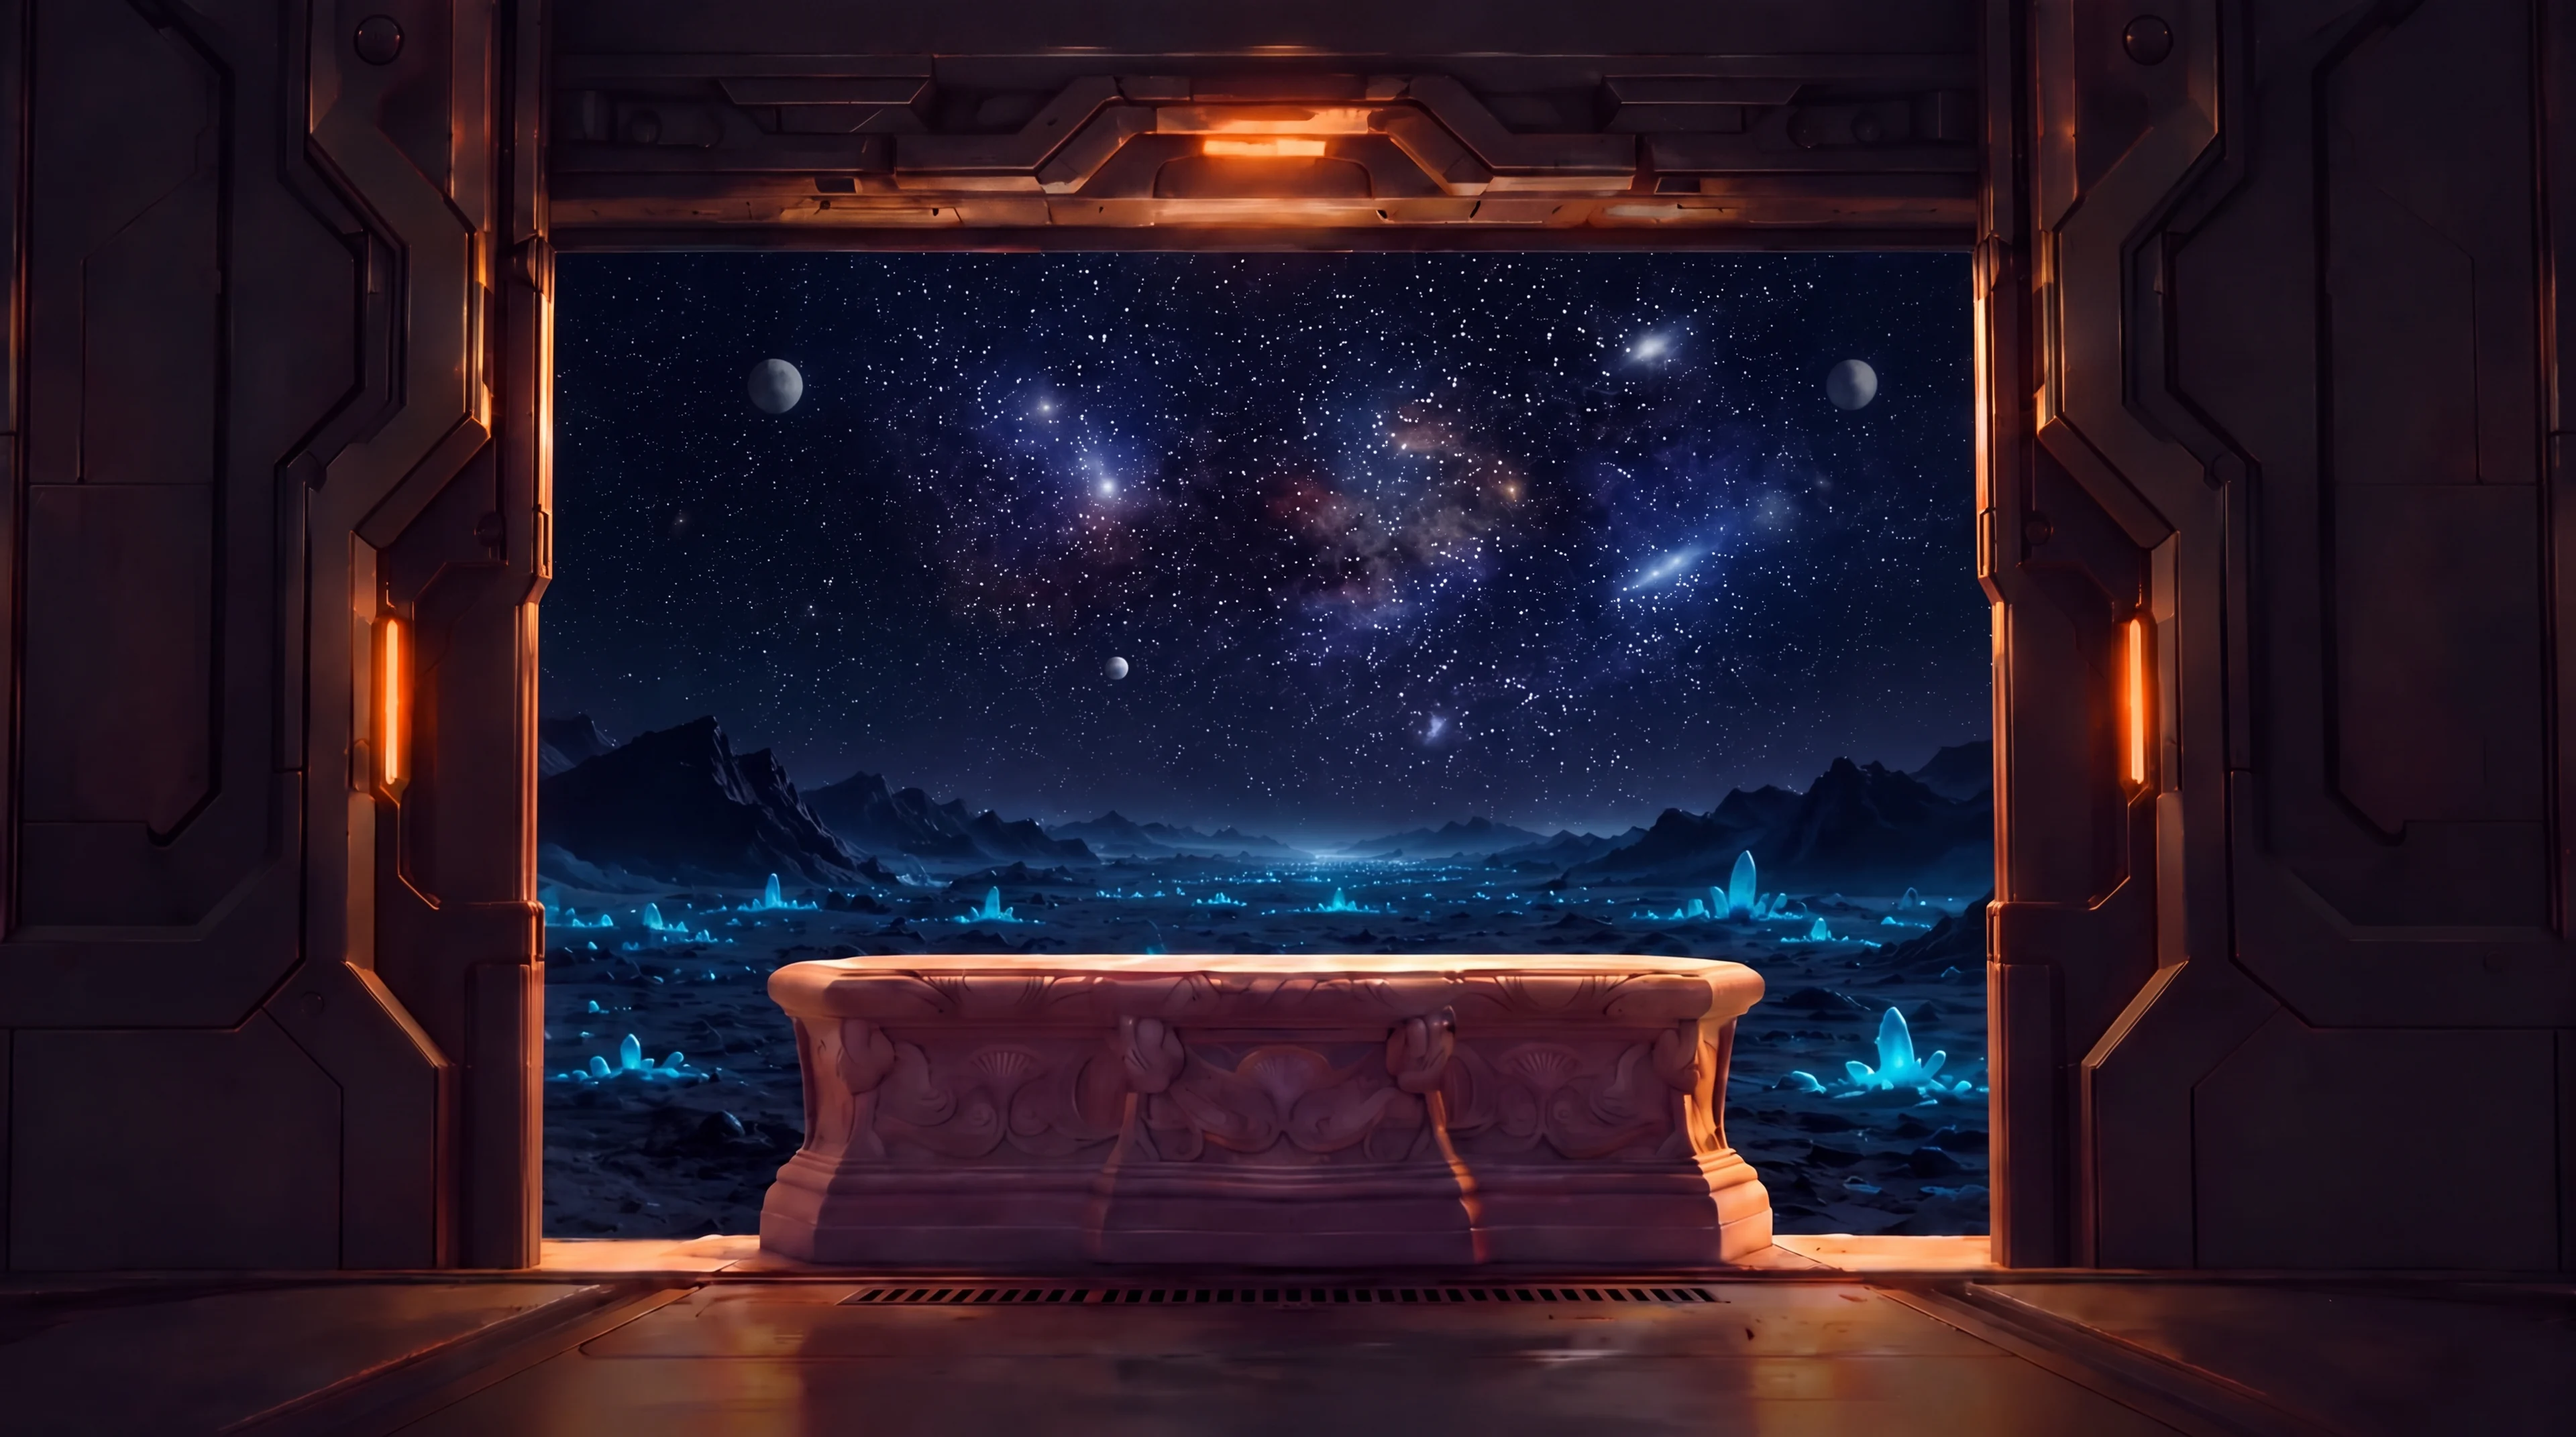
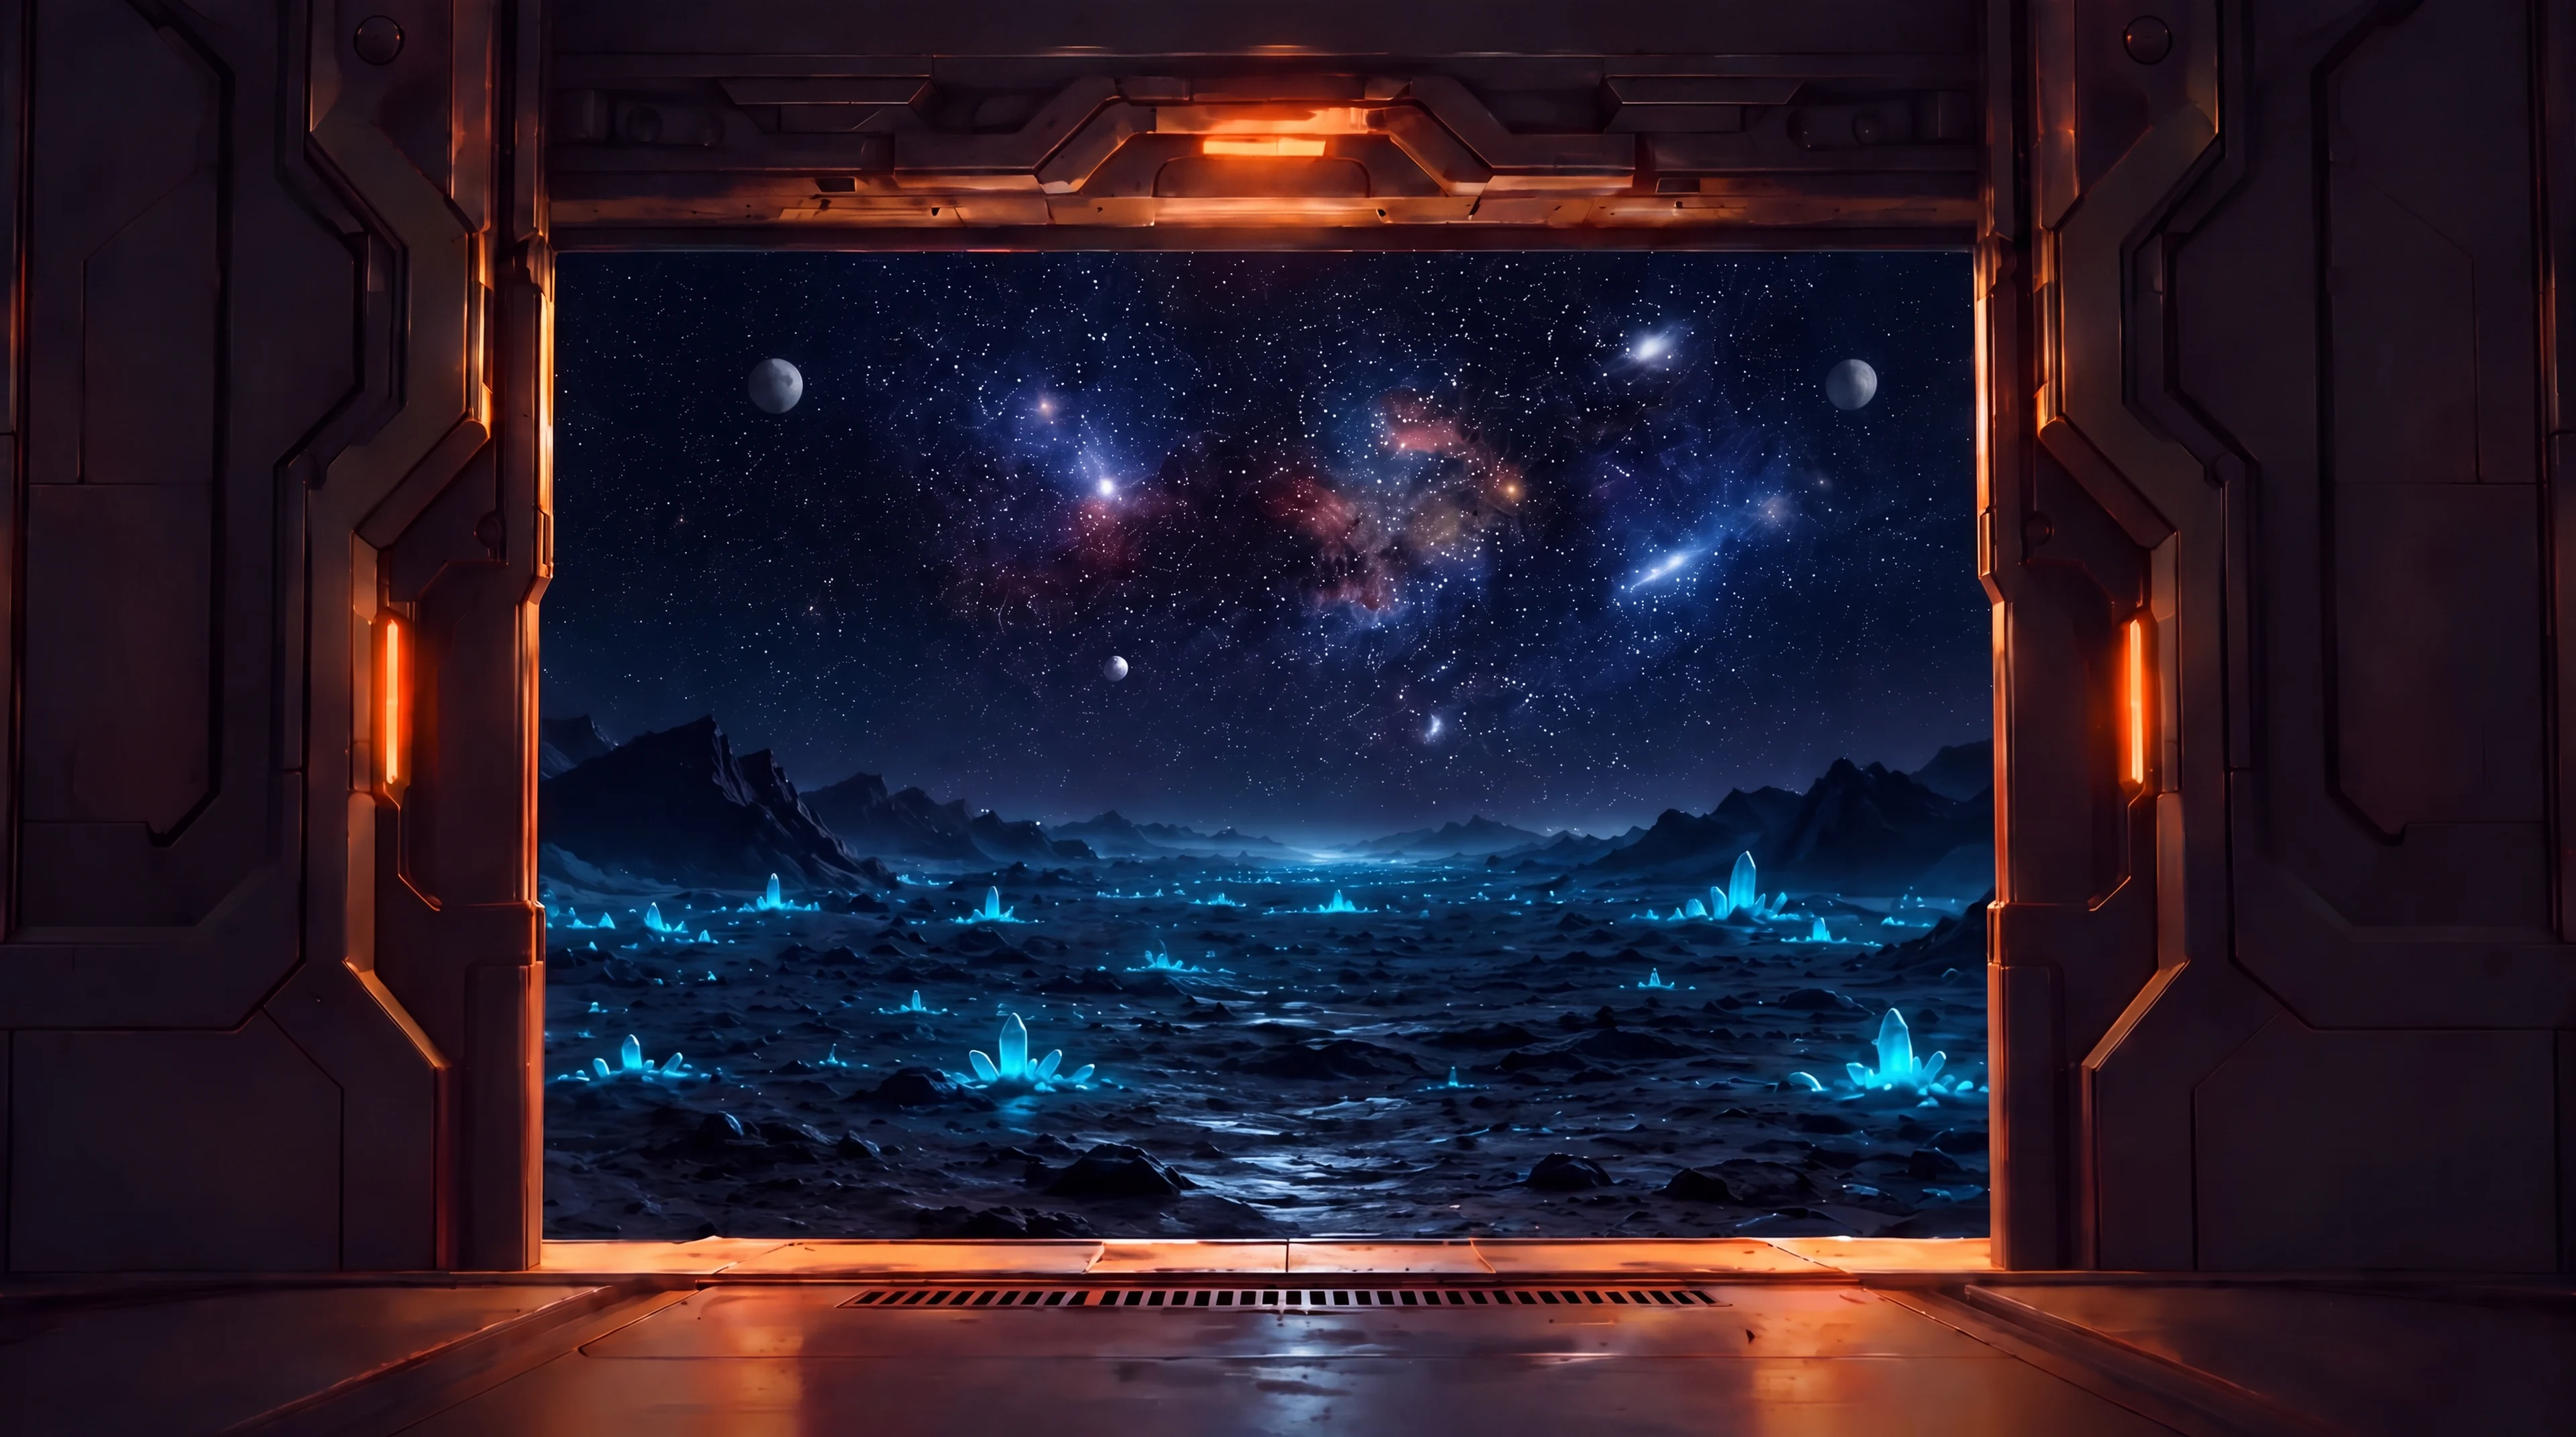
Transición: nuevo cuarto sin pedestal, con la vista al planeta de Siderax
Imagen del equipo reescalada a 4K; el marco coincide con el de las
puertas.

diff --git a/README.md b/README.md
@@ -28,7 +28,7 @@ assets/siderax-moto.webp    Siderax a la izquierda de la moto, con la mano sobre
 assets/galilei-symbol.png   Símbolo de Galilei que acompaña a "GaliLotería"
 assets/fondo-siderax.webp   Fondo: planeta de origen de Siderax, oscuro y suave
 assets/fondo-ganador.webp   Fondo del anuncio del ganador: bóveda de metal oscuro abierta a un valle con arcoíris y un pedestal
-assets/cuarto.webp          Transición: cuarto con la puerta abierta al planeta de Siderax
+assets/cuarto.webp          Transición: cuarto con la puerta abierta al planeta de Siderax, sin pedestal
 assets/puerta-cerrada.webp  Transición: la misma puerta cerrada (se usan sus dos hojas)
 assets/laurel.svg          Rama de laurel dorada para el título del anuncio
 assets/moto-gali.webp       Moto con Gali (gafas) apoyado en la rueda delantera, en el anuncio del ganador
